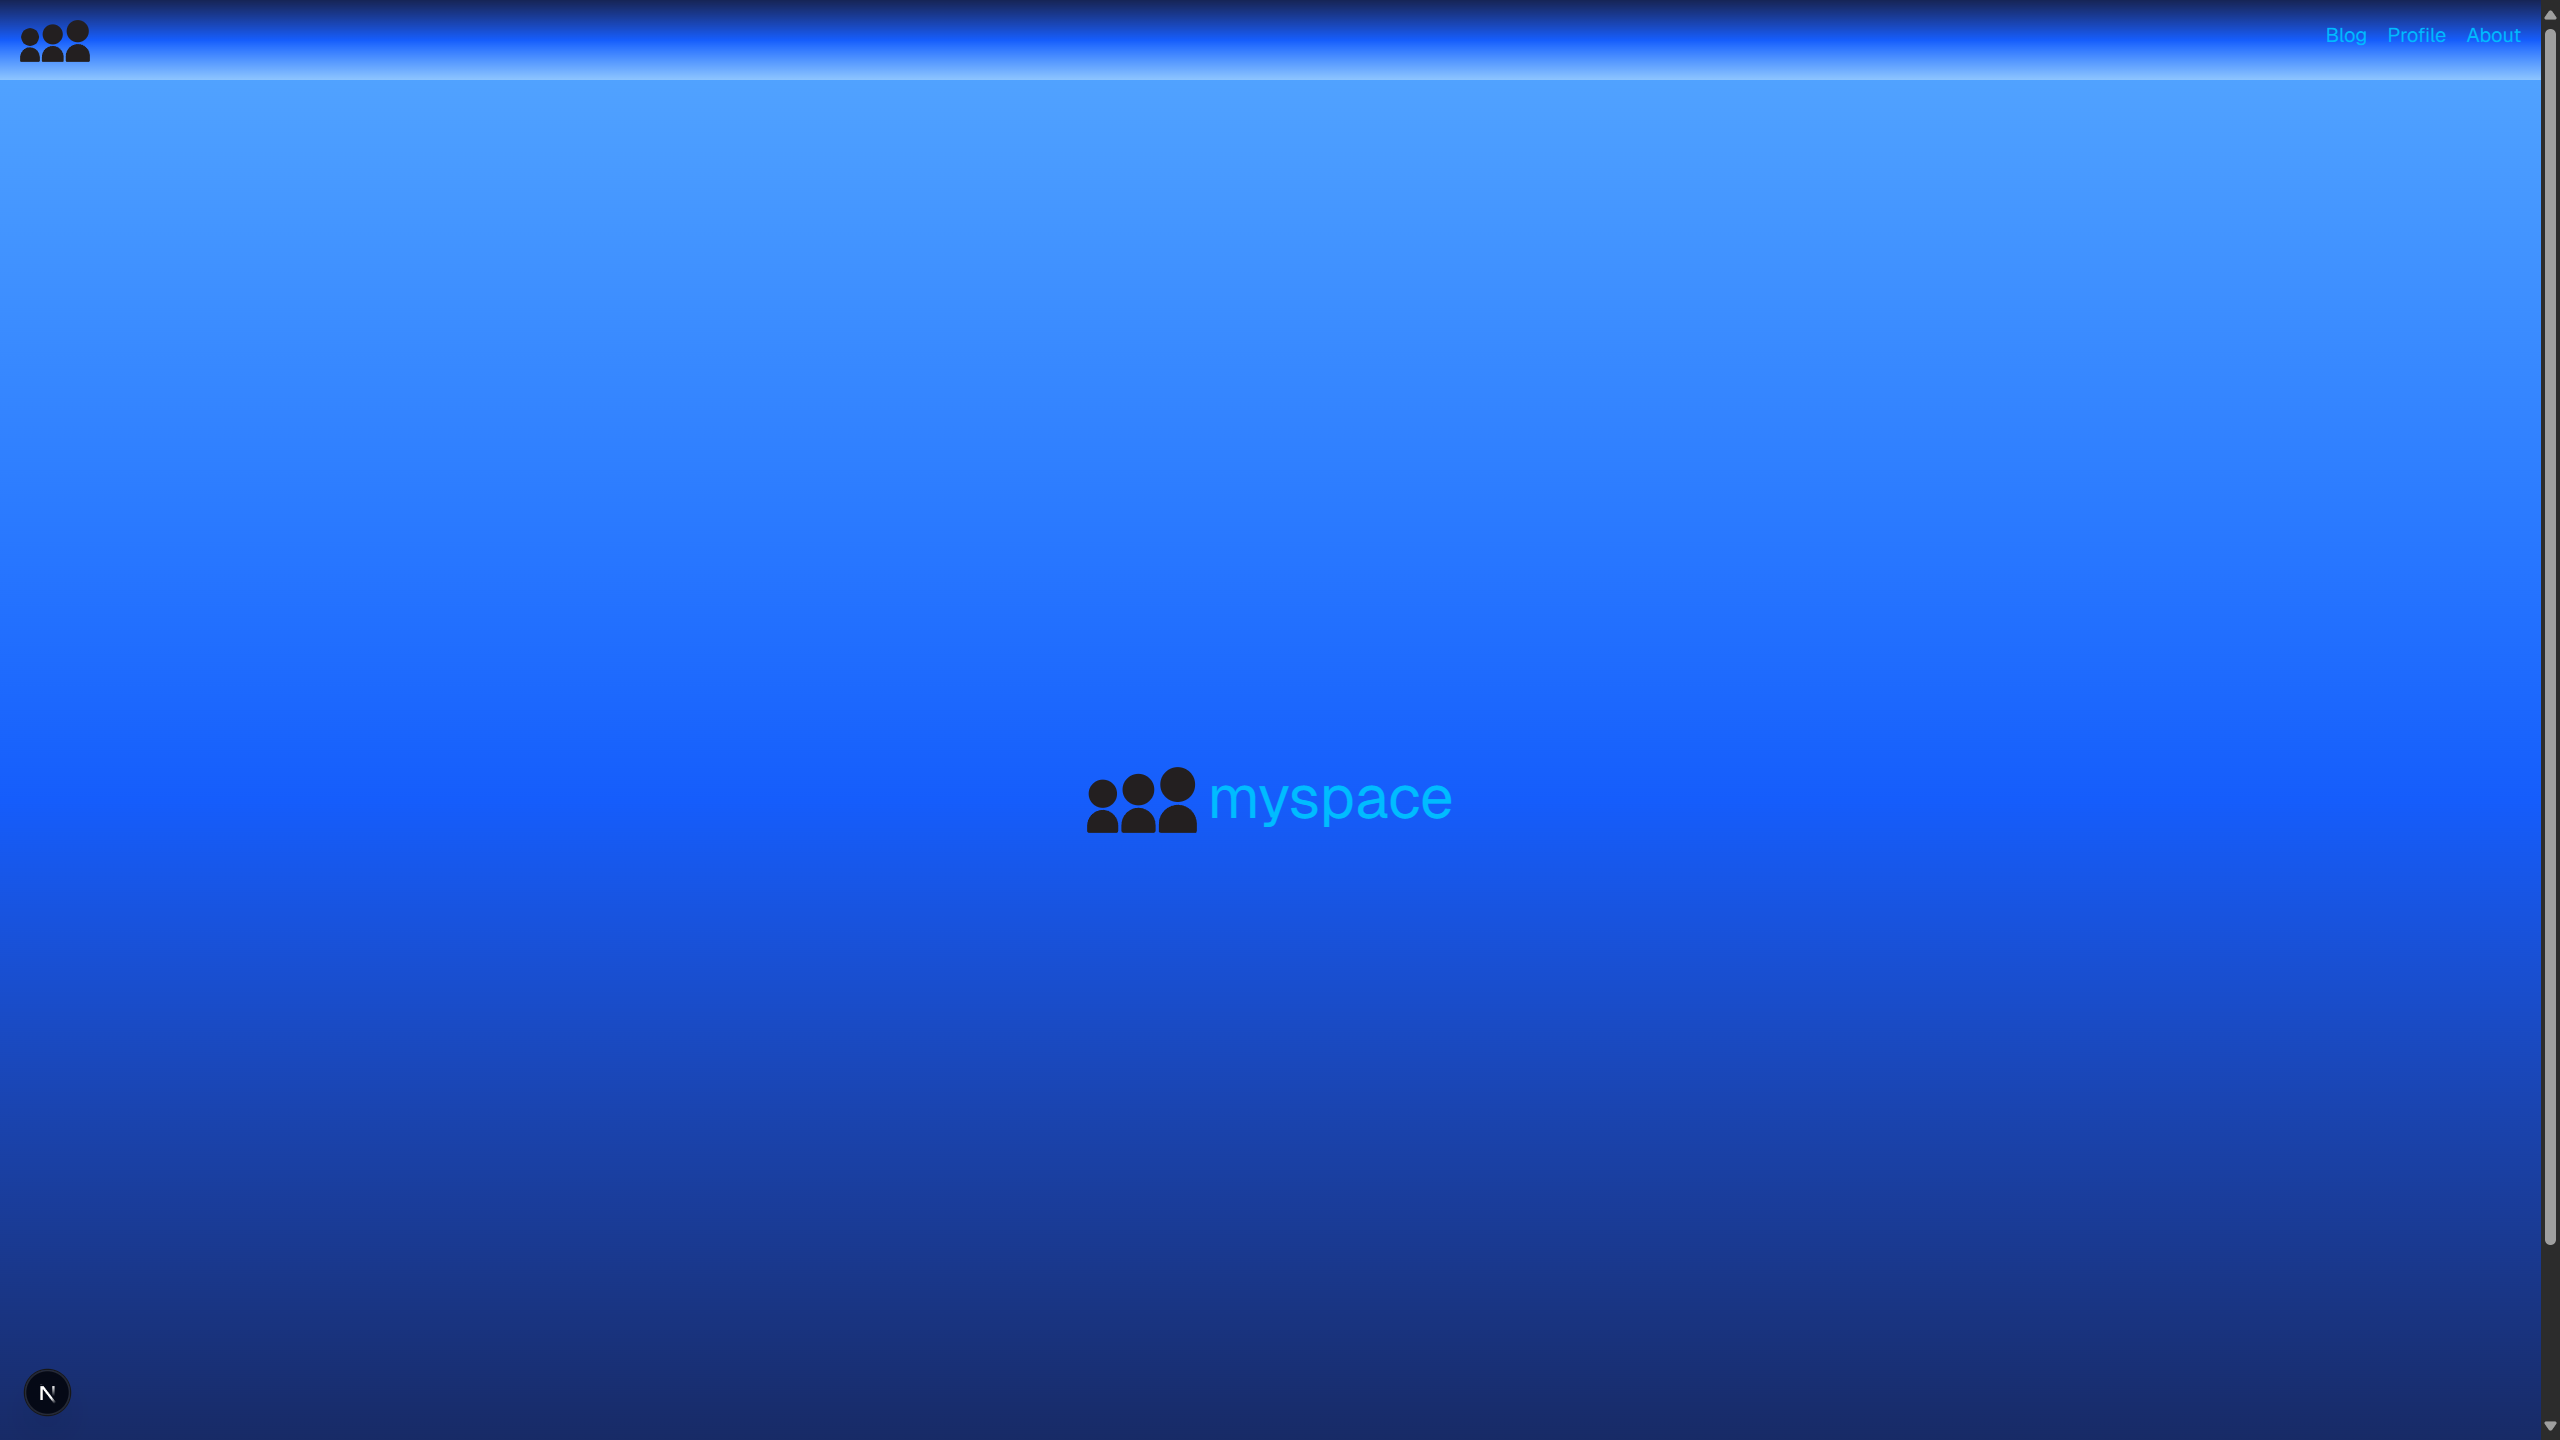
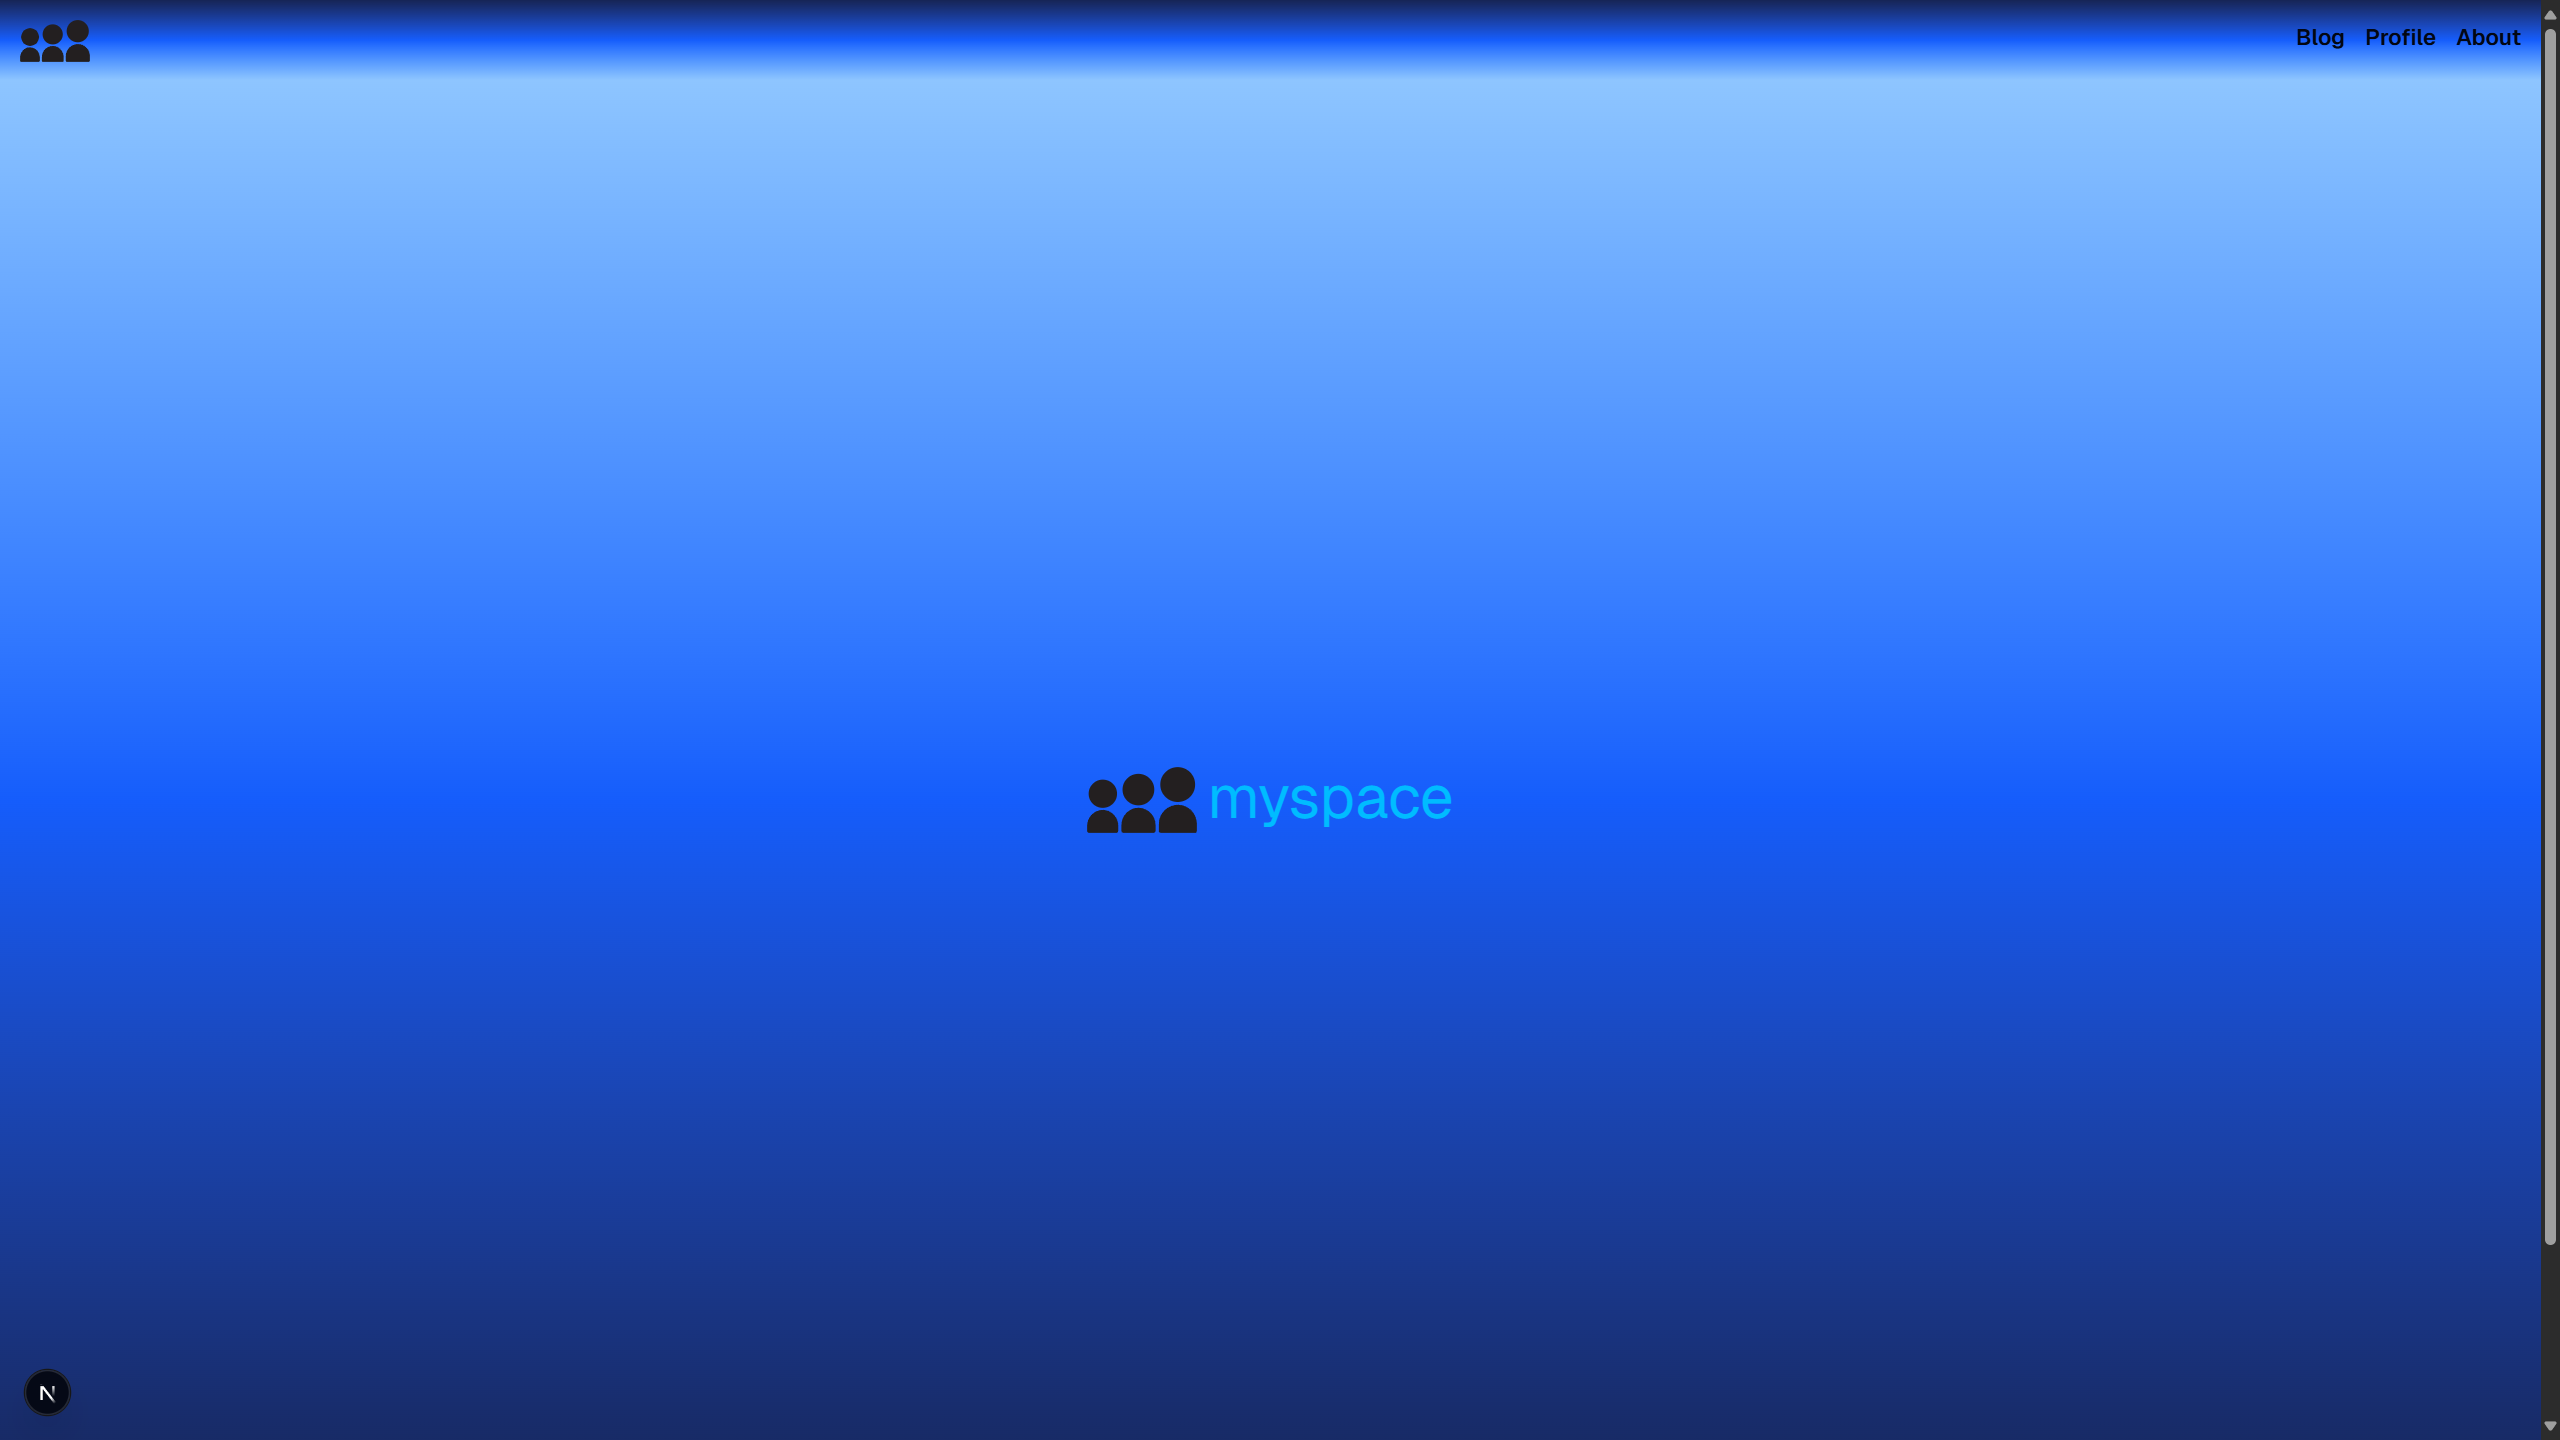
initials

diff --git a/src/app/blog/page.tsx b/src/app/blog/page.tsx
@@ -6,31 +6,30 @@ export default async function Blog() {
 
   return (
     <div className="text-sky-400">
-      <div className="bg-gradient-to-b from-blue-400 via-blue-500 to-blue-300">
-        <h1 className="flex items-center justify-center text-4xl text-blue-950 hover:text-blue-600 md:text-5xl">
+      <div className="bg-gradient-to-b from-blue-300 via-blue-400 to-blue-600">
+        <h1 className="flex items-center justify-center text-4xl text-gray-950 hover:text-blue-900 md:text-5xl">
           Blog
         </h1>
       </div>
-      <div className="flex min-h-screen items-center justify-center bg-gradient-to-b from-blue-400 via-blue-600 to-blue-950">
+      <div className="flex min-h-screen items-center justify-center bg-gradient-to-b from-blue-600 via-blue-900 to-blue-950">
         <div className="container mx-auto p-4">
           {!posts || posts.length === 0 ? (
-            <p className="text-center text-white">No blog posts found.</p>
+            <p className="text-center text-sky-300">No blog posts found.</p>
           ) : (
             <ul className="grid gap-4 md:grid-cols-2 lg:grid-cols-3">
               {posts.map((post) => (
                 <Link href={`/blog/${post.slug}`} key={post.slug}>
-                  <li
-                    key={post.slug}
-                    className="rounded bg-white/10 p-4 backdrop-blur"
-                  >
-                    <h2 className="mb-2 text-xl font-bold text-sky-100">
+                  <li className="rounded-md bg-white/10 p-4 backdrop-blur">
+                    <h2 className="mb-2 text-xl font-bold text-gray-900">
                       {post.title}
                     </h2>
-                    <p className="text-blue-200">{post.content}</p>
-                    <p
-                      // href={`/blog/${post.slug}`}
-                      className="mt-2 inline-block text-blue-300 hover:underline"
-                    >
+                    <p className="text-sky-200">
+                      {post.content.length > 100
+                        ? `${post.content.substring(0, 100)}...`
+                        : post.content}
+                    </p>
+                    {/* <p className="text-blue-200">{post.content}</p> */}
+                    <p className="mt-2 inline-block text-sky-400 hover:underline">
                       Read more →
                     </p>
                   </li>
@@ -47,12 +46,12 @@ export default async function Blog() {
 // export default function Blog() {
 //   return (
 //     <div className="text-sky-400">
-//       <div className="bg-gradient-to-b from-blue-400 via-blue-500 to-blue-300">
+//       <div className="bg-gradient-to-b from-blue-300 via-blue-500 to-blue-300">
 //         <h1 className="flex items-center justify-center text-4xl text-blue-950 hover:text-blue-600 md:text-5xl">
 //           Blog
 //         </h1>
 //       </div>
-//       <div className="flex min-h-screen items-center justify-center bg-gradient-to-b from-blue-400 via-blue-600 to-blue-950">
+//       <div className="flex min-h-screen items-center justify-center bg-gradient-to-b from-blue-300 via-blue-600 to-blue-950">
 //         <div></div>
 //       </div>
 //     </div>

diff --git a/src/app/blog/[slug]/page.tsx b/src/app/blog/[slug]/page.tsx
@@ -39,7 +39,7 @@ export default async function BlogPage({ params }: Props) {
   if (!post) {
     console.error("No post found with slug:", slug);
     return (
-      <div className="flex min-h-screen items-center justify-center bg-gradient-to-b from-blue-400 via-blue-600 to-blue-950">
+      <div className="flex min-h-screen items-center justify-center bg-gradient-to-b from-blue-300 via-blue-600 to-blue-950">
         <h1 className="text-2xl text-sky-400 md:text-3xl">Post not found.</h1>
       </div>
     );
@@ -47,14 +47,14 @@ export default async function BlogPage({ params }: Props) {
 
   return (
     <div className="text-sky-400">
-      <div className="bg-gradient-to-b from-blue-400 via-blue-500 to-blue-300">
-        <h1 className="flex items-center justify-center text-4xl text-blue-950 hover:text-blue-600 md:text-5xl">
+      <div className="bg-gradient-to-b from-blue-300 via-blue-500 to-blue-600">
+        <h1 className="flex items-center justify-center text-4xl text-gray-950 hover:text-blue-95 0 md:text-5xl p-10">
           {post?.title}
         </h1>
       </div>
 
-      <div className="flex min-h-screen items-center justify-center bg-gradient-to-b from-blue-400 via-blue-600 to-blue-950">
-        <div>
+      <div className="flex min-h-screen items-center justify-center bg-gradient-to-b from-blue-600 via-blue-900 to-blue-950">
+        <div className="flex flex-wrap p-10">
           <p className="text-xl md:text-2xl">{post?.content}</p>
         </div>
       </div>

diff --git a/src/components/ui/footer.tsx b/src/components/ui/footer.tsx
@@ -6,7 +6,7 @@ import { ModeToggle } from "~/components/theme-toggle";
 export default function Footer() {
   return (
     <div className="bg-gradient-to-b from-blue-950 via-blue-600 to-blue-300">
-      <div className="flex flex-row items-center justify-center justify-items-end p-3 text-xs text-gray-600">
+      <div className="flex flex-row items-center justify-center justify-items-end p-3 text-xs text-gray-950">
         <div className="mr-2">
           <ModeToggle></ModeToggle>
         </div>
@@ -20,7 +20,7 @@ export default function Footer() {
               &copy; 12025,{" "}
               <a
                 href="https://github.com/skywalkerSam/"
-                className="hover:text-sky-400 hover:underline focus:text-sky-400"
+                className="hover:text-blue-900 hover:underline focus:text-blue-900"
                 target="_blank"
                 rel="noopener noreferrer"
               >

diff --git a/src/app/navigation-menubar.tsx b/src/app/navigation-menubar.tsx
@@ -11,10 +11,10 @@ export default function NavigationMenuBar() {
         </Link>
       </div>
       <div className="flex size-9 flex-none md:flex-auto"></div>
-      <div className="flex size-12 flex-grow flex-row-reverse gap-4 p-4 tracking-tighter md:tracking-normal text-sky-400">
-        <Link href="/about">About</Link>
-        <Link href="/profile">Profile</Link>
-        <Link href="/blog">Blog</Link>
+      <div className="flex size-12 flex-grow flex-row-reverse gap-4 p-4 tracking-tighter md:tracking-normal text-gray-950 text-lg">
+        <Link href="/about" className="hover:text-blue-950">About</Link>
+        <Link href="/profile" className="hover:text-blue-950">Profile</Link>
+        <Link href="/blog" className="hover:text-blue-950">Blog</Link>
       </div>
     </div>
   );

diff --git a/src/app/profile/page.tsx b/src/app/profile/page.tsx
@@ -1,12 +1,12 @@
 export default function Profile() {
   return (
     <div className="text-sky-400">
-      <div className="bg-gradient-to-b from-blue-400 via-blue-500 to-blue-300">
+      <div className="bg-gradient-to-b from-blue-300 via-blue-500 to-blue-300">
         <h1 className="flex items-center justify-center text-4xl text-blue-950 hover:text-blue-600 md:text-5xl">
           Profile
         </h1>
       </div>
-      <div className="flex min-h-screen items-center justify-center bg-gradient-to-b from-blue-400 via-blue-600 to-blue-950">
+      <div className="flex min-h-screen items-center justify-center bg-gradient-to-b from-blue-300 via-blue-600 to-blue-950">
         <div></div>
       </div>
     </div>

diff --git a/src/server/queries.ts b/src/server/queries.ts
@@ -1,10 +1,18 @@
 // Queries
 import type { Post } from "~/types/types";
 
+const apiUrl =
+  process.env.NEXT_PUBLIC_API_URL ?? "http://localhost:3000/api/posts";
+
+/**
+ * Fetches posts from the API endpoint.
+ *
+ * @returns A list of posts, each with { id, slug, title, content }.
+ *          An empty array if the fetch fails.
+ */
 export async function getPosts() {
   try {
-    // const response: Response = await fetch("http://localhost:3000/api/posts", {
-    const response: Response = await fetch(process.env.NEXT_PUBLIC_API_URL!, {
+    const response: Response = await fetch(apiUrl, {
       cache: "no-cache",
     });
     if (!response.ok) {

diff --git a/src/app/layout.tsx b/src/app/layout.tsx
@@ -2,6 +2,7 @@ import "~/styles/globals.css";
 
 import { type Metadata } from "next";
 import { Geist } from "next/font/google";
+import { Ubuntu } from "next/font/google";
 import { ThemeProvider } from "~/components/theme-provider";
 import Footer from "~/components/ui/footer";
 import NavigationMenuBar from "./navigation-menubar";
@@ -15,6 +16,12 @@ export const metadata: Metadata = {
 const geist = Geist({
   subsets: ["latin"],
   variable: "--font-geist-sans",
+});
+
+const ubuntu = Ubuntu({
+  weight: "400",
+  subsets: ["latin"],
+  variable: "--font-ubuntu",
 });
 
 export default function RootLayout({

diff --git a/src/app/page.tsx b/src/app/page.tsx
@@ -3,7 +3,7 @@ import Link from "next/link";
 export default function HomePage() {
   return (
     <div>
-      <main className="flex min-h-screen flex-col items-center justify-center bg-gradient-to-b from-blue-400 via-blue-600 to-blue-950 text-sky-400">
+      <main className="flex min-h-screen flex-col items-center justify-center bg-gradient-to-b from-blue-300 via-blue-600 to-blue-950 text-sky-400">
         <div className="container flex flex-col items-center justify-center gap-12 px-4 py-16">
           <div>
             <Link

diff --git a/src/app/about/page.tsx b/src/app/about/page.tsx
@@ -2,7 +2,7 @@ import Link from "next/link";
 
 export default function About() {
   return (
-    <div className="flex min-h-screen items-center justify-center bg-gradient-to-b from-blue-400 via-blue-600 to-blue-950">
+    <div className="flex min-h-screen items-center justify-center bg-gradient-to-b from-blue-300 via-blue-600 to-blue-950">
       <div>
         <div>
           <Link
